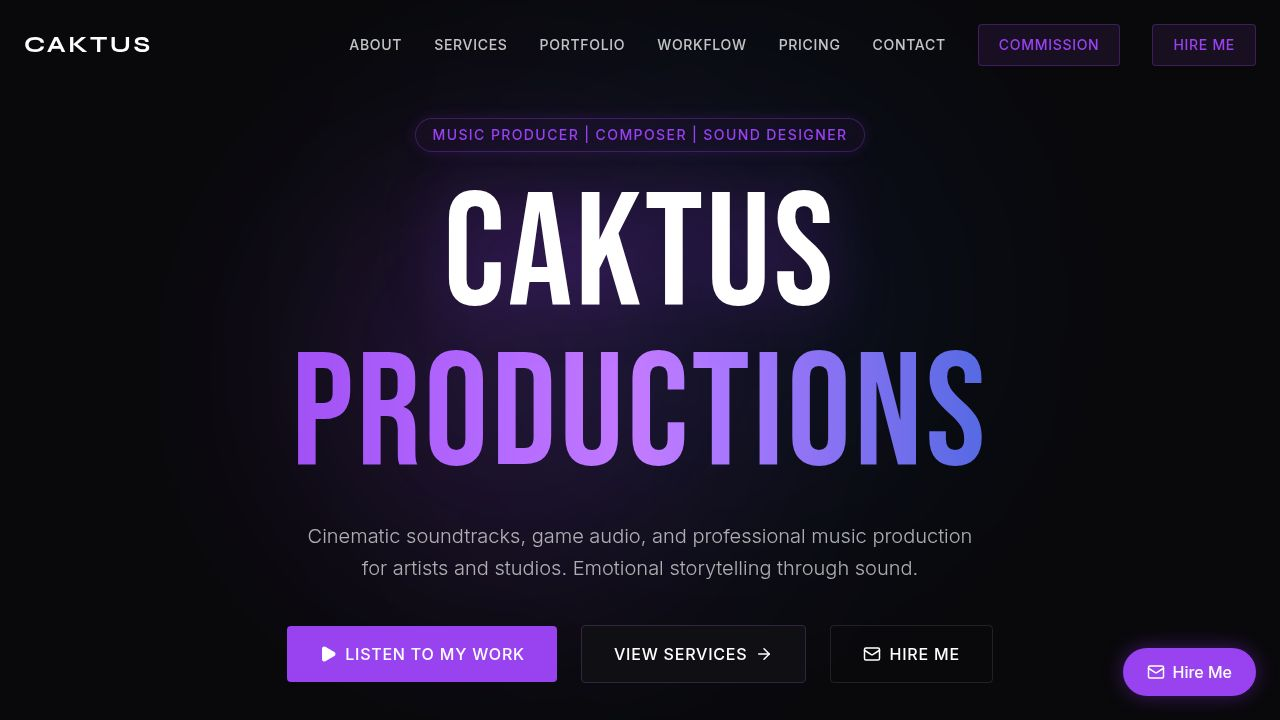
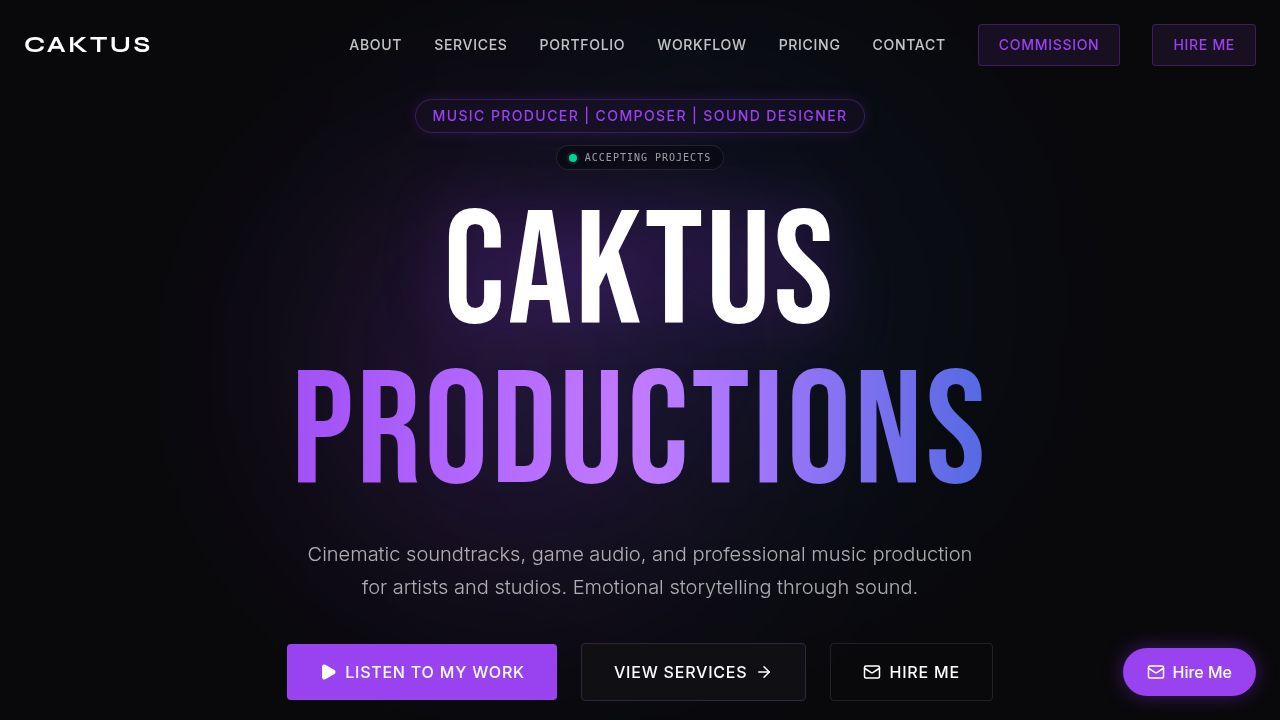
Improve login functionality by routing API requests
Add a proxy to the Vite configuration to route API requests directly to the backend server, resolving "failed to fetch" errors for login attempts.

Replit-Commit-Author: Agent
Replit-Commit-Session-Id: bbf998b4-9d0a-4eab-8f9d-7c86a43990bb
Replit-Commit-Checkpoint-Type: full_checkpoint
Replit-Commit-Event-Id: 475ffea3-9a55-4530-beb8-1062d8d2d398
Replit-Commit-Screenshot-Url: https://storage.googleapis.com/screenshot-production-us-central1/497f2ef4-18c0-4a53-9ca0-0dbab23a1b94/bbf998b4-9d0a-4eab-8f9d-7c86a43990bb/NWEvK91
Replit-Helium-Checkpoint-Created: true

diff --git a/artifacts/caktus-portfolio/vite.config.ts b/artifacts/caktus-portfolio/vite.config.ts
@@ -7,6 +7,7 @@ import runtimeErrorOverlay from "@replit/vite-plugin-runtime-error-modal";
 const rawPort = process.env.PORT;
 const port = rawPort ? Number(rawPort) : 3000;
 const basePath = process.env.BASE_PATH ?? "/";
+const apiPort = process.env.API_PORT ?? "8080";
 
 export default defineConfig({
   base: basePath,
@@ -45,6 +46,12 @@ export default defineConfig({
     strictPort: true,
     host: "0.0.0.0",
     allowedHosts: true,
+    proxy: {
+      "/api": {
+        target: `http://localhost:${apiPort}`,
+        changeOrigin: false,
+      },
+    },
     fs: {
       strict: true,
     },